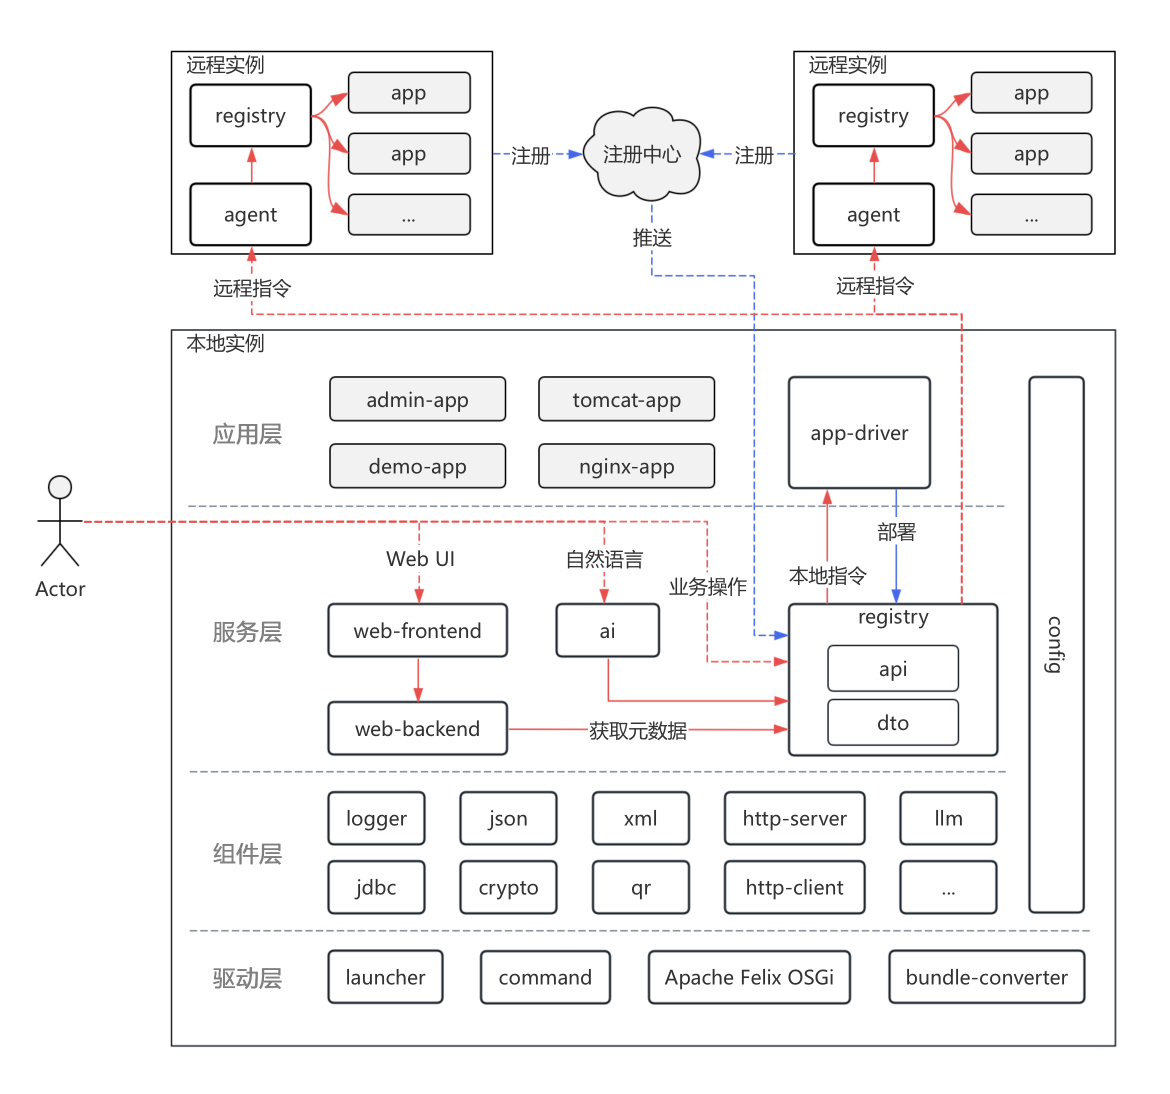
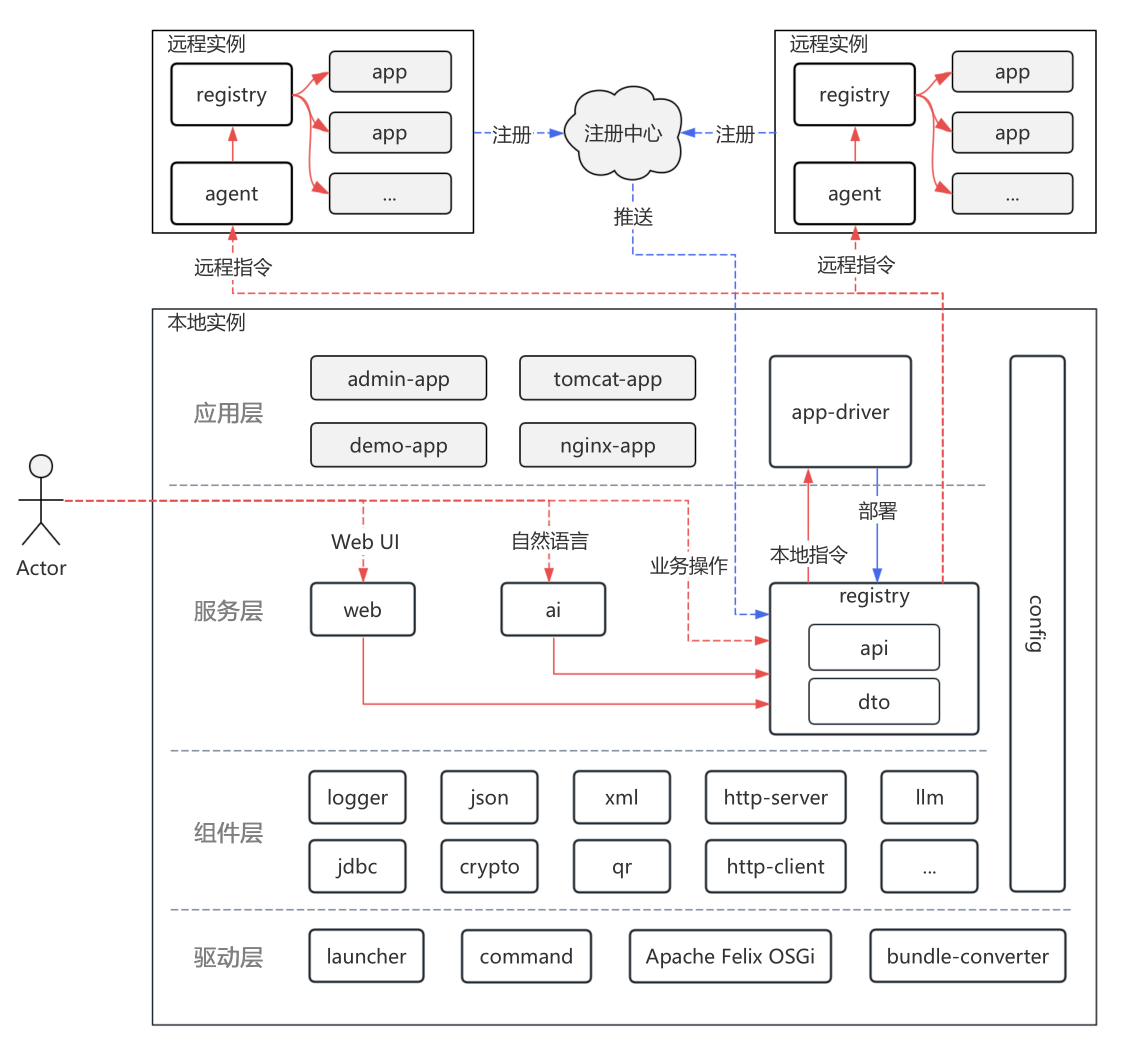
优化web模块的结构

Changed region(s): [[0.0, 0.0304, 0.9679, 0.9715]]

diff --git a/modules/qingzhou-registry/src/main/java/qingzhou/registry/service/web/AppMetaInfo.java b/modules/qingzhou-registry/src/main/java/qingzhou/registry/service/web/AppMetaInfo.java
@@ -7,14 +7,13 @@ import java.util.Map;
 
 import qingzhou.registry.AppStub;
 import qingzhou.registry.Registry;
-import qingzhou.registry.service.WebHttpHandler;
 
-public class AppMetaInfo implements WebHttpHandler.WebHandler {
-    public static final String REQUEST_PARAMETER_NAME_MODEL_ID = "modelId";
+class AppMetaInfo implements WebHttpHandler.WebHandler {
+    static final String REQUEST_PARAMETER_NAME_MODEL_ID = "modelId";
 
     private final WebHttpHandler.ContextHelper helper;
 
-    public AppMetaInfo(WebHttpHandler.ContextHelper helper) {
+    AppMetaInfo(WebHttpHandler.ContextHelper helper) {
         this.helper = helper;
     }
 

diff --git a/modules/qingzhou-registry/src/main/java/qingzhou/registry/service/web/IndexInfo.java b/modules/qingzhou-registry/src/main/java/qingzhou/registry/service/web/IndexInfo.java
@@ -8,14 +8,13 @@ import java.util.Map;
 import qingzhou.dto.meta.InstanceInfo;
 import qingzhou.dto.meta.annotation.App;
 import qingzhou.registry.Registry;
-import qingzhou.registry.service.WebHttpHandler;
 
-public class IndexInfo implements WebHttpHandler.WebHandler {
-    public static final String REQUEST_PARAMETER_NAME_APP_ID = "appId";
+class IndexInfo implements WebHttpHandler.WebHandler {
+    static final String REQUEST_PARAMETER_NAME_APP_ID = "appId";
 
     private final WebHttpHandler.ContextHelper helper;
 
-    public IndexInfo(WebHttpHandler.ContextHelper helper) {
+    IndexInfo(WebHttpHandler.ContextHelper helper) {
         this.helper = helper;
     }
 

diff --git a/modules/qingzhou-registry/src/main/java/qingzhou/registry/service/web/ModelMetaInfo.java b/modules/qingzhou-registry/src/main/java/qingzhou/registry/service/web/ModelMetaInfo.java
@@ -11,12 +11,11 @@ import qingzhou.dto.meta.annotation.ModelActionView;
 import qingzhou.dto.meta.annotation.ModelFieldView;
 import qingzhou.registry.AppStub;
 import qingzhou.registry.Registry;
-import qingzhou.registry.service.WebHttpHandler;
 
-public class ModelMetaInfo implements WebHttpHandler.WebHandler {
+class ModelMetaInfo implements WebHttpHandler.WebHandler {
     private final WebHttpHandler.ContextHelper helper;
 
-    public ModelMetaInfo(WebHttpHandler.ContextHelper helper) {
+    ModelMetaInfo(WebHttpHandler.ContextHelper helper) {
         this.helper = helper;
     }
 